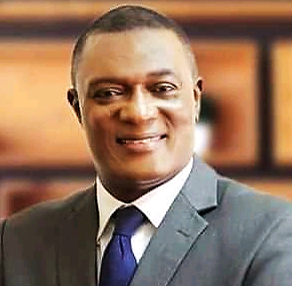
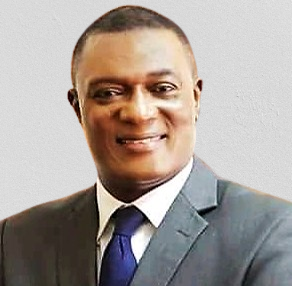
edits done to several pages

diff --git a/components/landing/Training2.vue b/components/landing/Training2.vue
@@ -193,27 +193,16 @@
                 <!-- Right Column: Images and Entrepreneurship Development -->
                 <div class="space-y-8">
                     <!-- Images Grid -->
-                    <div class="grid grid-cols-2 gap-4">
-                        <div class="relative rounded-xl overflow-hidden shadow-lg group">
-                            <img src="/assets/img/elevation-training2.jpg" alt="Business Training Session"
+                    <div>
+
+                        <div class="relative rounded-xl overflow-hidden shadow-lg group mb-4">
+                            <img src="/assets/img/elevation-training9.jpg" alt="Team Training Workshop"
                                 class="w-full h-64 md:h-72 lg:h-84 object-cover group-hover:scale-105 transition-transform duration-700" />
                             <div class="absolute inset-0 bg-gradient-to-t from-black/20 to-transparent opacity-60">
                             </div>
                         </div>
                         <div class="relative rounded-xl overflow-hidden shadow-lg group">
-                            <img src="/assets/img/elevation-training3.jpg" alt="Professional Skills Development"
-                                class="w-full h-64 md:h-72 lg:h-84 object-cover group-hover:scale-105 transition-transform duration-700" />
-                            <div class="absolute inset-0 bg-gradient-to-t from-black/20 to-transparent opacity-60">
-                            </div>
-                        </div>
-                        <div class="relative rounded-xl overflow-hidden shadow-lg group">
-                            <img src="/assets/img/elevation-training4.jpg" alt="Team Training Workshop"
-                                class="w-full h-64 md:h-72 lg:h-84 object-cover group-hover:scale-105 transition-transform duration-700" />
-                            <div class="absolute inset-0 bg-gradient-to-t from-black/20 to-transparent opacity-60">
-                            </div>
-                        </div>
-                        <div class="relative rounded-xl overflow-hidden shadow-lg group">
-                            <img src="/assets/img/elevation-training5.jpg" alt="Entrepreneurship Training"
+                            <img src="/assets/img/elevation-training8.jpg" alt="Entrepreneurship Training"
                                 class="w-full h-64 md:h-72 lg:h-84 object-cover group-hover:scale-105 transition-transform duration-700" />
                             <div class="absolute inset-0 bg-gradient-to-t from-black/20 to-transparent opacity-60">
                             </div>

diff --git a/components/landing/Team.vue b/components/landing/Team.vue
@@ -18,8 +18,8 @@
                 <div
                     class="bg-white rounded-xl shadow-lg hover:shadow-xl transition-all duration-300 border border-gray-400 overflow-hidden group">
                     <div class="relative">
-                        <img src="/assets/img/gbolahan-shelika2.png" alt="Gbolahan Shelika - Lead Consultant"
-                            class="w-full h-80 object-cover group-hover:scale-105 transition-transform duration-700" />
+                        <img src="/assets/img/gbolahan-shelika.png" alt="Gbolahan Shelika - Lead Consultant"
+                            class="w-full h-110 object-cover group-hover:scale-105 transition-transform duration-700" />
                         <div
                             class="absolute inset-0 bg-gradient-to-t from-black/40 to-transparent opacity-0 group-hover:opacity-100 transition-opacity duration-300">
                         </div>
@@ -41,9 +41,9 @@
                 <div
                     class="bg-white rounded-xl shadow-lg hover:shadow-xl transition-all duration-300 border border-gray-400 overflow-hidden group">
                     <div class="relative">
-                        <img src="/assets/img/funm-shelika.jpg"
+                        <img src="/assets/img/funm-shelika.png"
                             alt="Oluwafunmilola Shelika - Director, Enterprise Development"
-                            class="w-full h-80 object-cover group-hover:scale-105 transition-transform duration-700" />
+                            class="w-full h-110 object-cover group-hover:scale-105 transition-transform duration-700" />
                         <div
                             class="absolute inset-0 bg-gradient-to-t from-black/40 to-transparent opacity-0 group-hover:opacity-100 transition-opacity duration-300">
                         </div>
@@ -67,7 +67,7 @@
                     <div class="relative">
                         <img src="/assets/img/james-ladipo.png"
                             alt="James Alpheus - Faculty Advisor, Performance and Strategy"
-                            class="w-full h-80 object-cover group-hover:scale-105 transition-transform duration-700" />
+                            class="w-full h-110 object-cover group-hover:scale-105 transition-transform duration-700" />
                         <div
                             class="absolute inset-0 bg-gradient-to-t from-black/40 to-transparent opacity-0 group-hover:opacity-100 transition-opacity duration-300">
                         </div>

diff --git a/components/home/Preview.vue b/components/home/Preview.vue
@@ -30,10 +30,10 @@
             <!-- Content Container -->
             <div class="grid lg:grid-cols-2 gap-8 lg:gap-12 items-center">
                 <!-- Left Column - Main Description (No Heading) -->
-                <div class="max-w-md -mt-24 mx-auto lg:ml-auto lg:mr-16" ref="contentRef">
+                <div class="max-w-md mt-0 lg:-mt-24 mx-auto lg:ml-auto lg:mr-16" ref="contentRef">
                     <!-- Content without card -->
                     <div class="space-y-6">
-                        <p class="text-lg md:text-xl leading-relaxed text-gray-700">
+                        <p class="text-center md:text-left text-lg md:text-xl leading-relaxed text-gray-700">
                             Elevation Consulting is a <span class="text-[#0099CC] font-semibold">boutique enterprise
                                 support firm</span> dedicated to helping Small and Growing Businesses (SGBs) and
                             organizations achieve measurable, sustainable growth. We design strategies that strengthen

diff --git a/components/landing/Vision.vue b/components/landing/Vision.vue
@@ -18,8 +18,8 @@
                         <div class="absolute inset-0 bg-gradient-to-t from-black/20 to-transparent opacity-60"></div>
                     </div>
                     <div class="relative rounded-2xl overflow-hidden shadow-2xl group">
-                        <img src="/assets/img/about-elevation5.jpg" alt="Elevation Consulting strategic approach"
-                            class="w-full h-72 md:h-96 object-cover transition-transform duration-700 group-hover:scale-105" />
+                        <img src="/assets/img/about-elevation7.jpg" alt="Elevation Consulting strategic approach"
+                            class="w-full h-72 md:h-96 object-cover transition-transform duration-700 group-hover:scale-105 -scale-x-100" />
                         <div class="absolute inset-0 bg-gradient-to-t from-black/20 to-transparent opacity-60"></div>
                     </div>
                 </div>

diff --git a/components/landing/Training.vue b/components/landing/Training.vue
@@ -214,7 +214,7 @@
                     <!-- Image -->
                     <div>
                         <div class="relative rounded-2xl overflow-hidden shadow-2xl group">
-                            <img src="/assets/img/consulting-elevation2.jpg" alt="Elevation Consulting - Our Approach"
+                            <img src="/assets/img/consulting-elevation3.jpg" alt="Elevation Consulting - Our Approach"
                                 class="w-full h-80 md:h-96 lg:h-[500px] object-cover transition-transform duration-700 group-hover:scale-105" />
                             <div class="absolute inset-0 bg-gradient-to-t from-black/30 to-transparent"></div>
                         </div>
